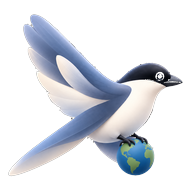
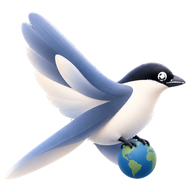
홈 화면 잘림을 고치고 로고 그림을 새로 다듬는다
홈 화면이 세로로 짧은 기기에서 위아래가 잘린 채 스크롤도 안 됐다.
flex 는 위아래로 똑같이 밀어낸다. 위로 넘긴 부분은 스크롤 시작점보다
앞이라 되돌아갈 수 없고, scrollHeight 도 늘지 않아 스크롤 막대가 짧게
잡힌다 — 390×480 에서 로고와 제목이 통째로 가려져 있었다.
safe center 로 바꿔 넘칠 때만 위를 기준으로 쌓이게 했다. 앞 줄에 옛
브라우저용 center 를 남겨 둔다. 결과 카드(.rq-body)도 같은 문제라 함께 고쳤다.

로고는 받은 그림으로 갈았다. 전에 쓰던 그림은 파랑이 너무 세서 지구본이
부리 옆 파란 얼룩처럼 보였는데, 새 그림은 발로 지구본을 쥔 모양이 또렷하다.
원본 외곽선에 찍혀 있던 검은 낱알 310픽셀은 주변 색으로 덮었다 — 주변보다
뚜렷하게 어두운 픽셀만 골라서, 머리·부리처럼 넓게 검은 곳은 건드리지 않는다.
그 과정을 tools/make-logo.py 로 남겨 다음에 그림이 바뀌어도 같은 손질을
다시 할 수 있게 했다.

Claude-Session: https://claude.ai/code/session_0111yRyXzGisqdrG9SKT91iY

diff --git a/index.html b/index.html
@@ -13,10 +13,10 @@
 <link rel="stylesheet" crossorigin href="https://cdn.jsdelivr.net/gh/orioncactus/pretendard@v1.3.9/dist/web/static/pretendard.min.css">
 <link href="https://fonts.googleapis.com/css2?family=Space+Grotesk:wght@400;500;600;700&display=swap" rel="stylesheet">
 </noscript>
-<link rel="icon" href="img/magpie-64.png?v=20260912b">
-<link rel="apple-touch-icon" href="img/magpie-192.png?v=20260912b">
+<link rel="icon" href="img/magpie-64.png?v=20260913a">
+<link rel="apple-touch-icon" href="img/magpie-192.png?v=20260913a">
 <script>(function(){try{var m=localStorage.getItem('seji_theme')||(matchMedia('(prefers-color-scheme: light)').matches?'light':'dark');document.documentElement.dataset.theme=m;}catch(e){}})();</script>
-<link rel="stylesheet" href="css/main.css?v=20260912b">
+<link rel="stylesheet" href="css/main.css?v=20260913a">
 </head>
 <body>
 <button id="theme-toggle" type="button" title="화면 밝기 전환" onclick="toggleTheme()"></button>
@@ -28,7 +28,7 @@
       <path d="M-10 150 C 90 150 130 40 260 40 C 390 40 430 150 530 150"/>
     </svg>
     <div class="g3-lockup" aria-label="Geogl3">
-      <img class="g3-bird" src="img/magpie-512.png?v=20260912b" alt="" width="512" height="512" decoding="async"/>
+      <img class="g3-bird" src="img/magpie-512.png?v=20260913a" alt="" width="512" height="512" decoding="async"/>
       <div class="g3-logo">Geogl3</div>
     </div>
     <p class="ld-tag">See the world from above</p>
@@ -46,7 +46,7 @@
        예전에는 카드 안 "로그인하면…" 줄 **위**에 끼어 있어서, 세 사이트를 나란히
        놓으면 지오글만 브랜드가 본문 한복판에 뜬 것처럼 보였다. -->
   <footer class="ld-foot">
-    <a class="ld-brand" href="https://nepica.vercel.app" target="_blank" rel="noreferrer" aria-label="NEPICA 브랜드 사이트로 이동"><img src="img/nepica-64.png?v=20260912b" alt="" width="22" height="22" decoding="async"/><span>NEPICA</span></a>
+    <a class="ld-brand" href="https://nepica.vercel.app" target="_blank" rel="noreferrer" aria-label="NEPICA 브랜드 사이트로 이동"><img src="img/nepica-64.png?v=20260913a" alt="" width="22" height="22" decoding="async"/><span>NEPICA</span></a>
   </footer>
 
   <!-- 세부 옵션 시트 -->
@@ -4950,25 +4950,25 @@
     <button class="reb secondary" onclick="runPendingReset();document.getElementById('rbq-end').classList.remove('on')">다시 시작</button>
   </div>
 </div>
-<script src="js/data.js?v=20260912b"></script>
-<script src="js/rivers-data.js?v=20260912b"></script>
-<script src="js/climate-data.js?v=20260912b"></script>
-<script src="js/climate-map-data.js?v=20260912b"></script>
-<script src="js/app.js?v=20260912b"></script>
-<script src="js/climate.js?v=20260912b"></script>
-<script src="js/dict-data.js?v=20260912b"></script>
-<script src="js/flag-colors-data.js?v=20260912b"></script>
-<script src="js/flag-bg-data.js?v=20260912b"></script>
-<script src="js/wiki-style.js?v=20260912b"></script>
-<script src="js/dict.js?v=20260912b"></script>
-<script src="js/suteuk-data.js?v=20260912b"></script>
-<script src="js/suteuk.js?v=20260912b"></script>
-<script src="js/stat-data.js?v=20260912b"></script>
-<script src="js/stat.js?v=20260912b"></script>
+<script src="js/data.js?v=20260913a"></script>
+<script src="js/rivers-data.js?v=20260913a"></script>
+<script src="js/climate-data.js?v=20260913a"></script>
+<script src="js/climate-map-data.js?v=20260913a"></script>
+<script src="js/app.js?v=20260913a"></script>
+<script src="js/climate.js?v=20260913a"></script>
+<script src="js/dict-data.js?v=20260913a"></script>
+<script src="js/flag-colors-data.js?v=20260913a"></script>
+<script src="js/flag-bg-data.js?v=20260913a"></script>
+<script src="js/wiki-style.js?v=20260913a"></script>
+<script src="js/dict.js?v=20260913a"></script>
+<script src="js/suteuk-data.js?v=20260913a"></script>
+<script src="js/suteuk.js?v=20260913a"></script>
+<script src="js/stat-data.js?v=20260913a"></script>
+<script src="js/stat.js?v=20260913a"></script>
 <!-- ════════════════════════════════════════════════════════════
      계정 · 소셜로그인 · 랭킹 (Supabase) — 빌드/명령어 불필요, 이 파일만으로 동작
      ▼▼▼ 여기 두 줄만 본인 Supabase 값으로 바꾸면 끝 ▼▼▼ -->
-<script type="module" src="js/account.js?v=20260912b"></script>
+<script type="module" src="js/account.js?v=20260913a"></script>
 
 </body>
 </html>

diff --git a/css/main.css b/css/main.css
@@ -258,7 +258,8 @@ body.mob-mode #kr-ov{align-items:flex-start;padding-top:.8rem;padding-bottom:0}
 .rq-stat{display:flex;flex-direction:row;align-items:center;gap:.4rem;background:var(--sf2);border-radius:999px;padding:.3rem .75rem}
 .rq-progress{height:2px;background:var(--bd);flex-shrink:0}
 .rq-pf{height:100%;background:var(--ac);transition:width .4s;width:0%}
-.rq-body{flex:1;display:flex;align-items:center;justify-content:center;padding:1.5rem;overflow-y:auto}
+/* 결과 카드도 같은 이유로 safe 로 둔다 — 카드가 길면 위가 잘려 제목이 안 보였다 */
+.rq-body{flex:1;display:flex;align-items:center;align-items:safe center;justify-content:center;padding:1.5rem;overflow-y:auto}
 .rq-card{background:var(--sf);border:1px solid var(--bd);border-radius:16px;box-shadow:var(--shadow);width:100%;max-width:520px;padding:1.6rem}
 .rq-flag{text-align:center;margin-bottom:.5rem;line-height:1.2}
 .rq-flag img{height:64px;border-radius:4px;box-shadow:0 2px 8px rgba(0,0,0,.3);object-fit:cover}
@@ -290,7 +291,13 @@ body.mob-mode #kr-ov{align-items:flex-start;padding-top:.8rem;padding-bottom:0}
 .wi-country{font-weight:600}
 .wi-ans{color:#81c995;margin-left:6px}
 .wi-yours{color:var(--wr);margin-left:6px}
-#landing-overlay{position:fixed;inset:0;background:radial-gradient(1100px 620px at 50% -12%,#1d222a 0%,var(--bg) 62%);z-index:9000;display:flex;flex-direction:column;align-items:center;justify-content:center;gap:1.2rem;overflow-y:auto;padding:1.2rem 0}
+/* justify-content:center 는 내용이 화면보다 길어지면 위아래로 똑같이 밀어낸다.
+   위로 넘친 부분은 스크롤로 되돌아갈 수 없어 잘린 채 갇힌다 — 화면이 낮거나
+   글씨를 키운 기기에서 홈 화면 로고와 아래쪽이 함께 잘리던 원인이다.
+   safe center 는 넘칠 때만 flex-start 처럼 굴어 위쪽을 지켜 준다.
+   앞 줄은 safe 를 모르는 브라우저용 대비책이다. */
+#landing-overlay{position:fixed;inset:0;background:radial-gradient(1100px 620px at 50% -12%,#1d222a 0%,var(--bg) 62%);z-index:9000;display:flex;flex-direction:column;align-items:center;
+  justify-content:center;justify-content:safe center;gap:1.2rem;overflow-y:auto;padding:1.2rem 0}
 .land-choices{display:flex;gap:.8rem;flex-wrap:wrap;justify-content:center}
 .land-btn{padding:1.1rem 1.8rem;border-radius:4px;border:1px solid var(--bd);background:var(--sf);color:var(--tx);font-family:var(--font-sans);font-size:.92rem;font-weight:600;cursor:pointer;transition:.2s;min-width:140px;text-align:center}
 .land-btn:hover{border-color:var(--tx);color:var(--tx);background:var(--sf2)}

diff --git a/tools/make-logo.py b/tools/make-logo.py
@@ -1,0 +1,97 @@
+#!/usr/bin/env python3
+"""로고 이미지 다듬기 — 흰 배경을 지우고 가장자리 점을 털어 낸 뒤 크기별로 뽑는다.
+
+    python3 tools/make-logo.py <원본.png>
+
+원본은 흰 배경에 물까치가 그려진 정사각 그림이다. 하는 일은 셋뿐이다.
+  1. 테두리에서 흰색을 따라 들어가며 배경만 투명하게 만든다.
+     (새 안쪽의 흰 배·날개는 배경과 이어져 있지 않아 살아남는다)
+  2. 새와 떨어져 있는 작은 점들을 지운다 — 원본 외곽선에 찍힌 검은 얼룩이다.
+  3. 여백을 고르게 두고 512·192·64로 줄여 img/ 에 쓴다.
+색은 손대지 않는다.
+"""
+import sys, collections
+from PIL import Image, ImageFilter
+import numpy as np
+
+SRC = sys.argv[1] if len(sys.argv) > 1 else 'logo.png'
+OUT = {'img/magpie-512.png': 512, 'img/magpie-192.png': 192, 'img/magpie-64.png': 64}
+WHITE = 238          # 이 값보다 밝고 색기 없는 픽셀을 배경 후보로 본다
+CHROMA = 14          # R·G·B 차이가 이만큼 안 나면 무채색(=흰 배경)
+SPECK = 0.0008       # 전체 넓이의 이 비율보다 작은 조각은 얼룩으로 보고 지운다
+DOT = 46             # 주변보다 이만큼 어두운 낱알은 외곽선 얼룩으로 보고 지운다
+
+im = Image.open(SRC).convert('RGB')
+
+# ── 0. 윤곽을 따라 찍힌 검은 낱알 지우기 ──
+#   주변 median 보다 뚜렷하게 어두운 픽셀만 median 색으로 덮는다.
+#   머리·부리처럼 넓게 검은 곳은 제 주변도 같이 어두워서 median 과 차이가
+#   없으므로 그대로 남는다 — 낱알만 골라 없어진다.
+med = im.filter(ImageFilter.MedianFilter(5))
+o = np.asarray(im).astype(np.int16)
+m = np.asarray(med).astype(np.int16)
+speck = (m.mean(axis=2) - o.mean(axis=2)) > DOT
+o[speck] = m[speck]
+print(f'외곽선 얼룩 {int(speck.sum())}픽셀을 주변 색으로 덮음')
+im = Image.fromarray(o.astype(np.uint8))
+
+a = np.asarray(im).astype(np.int16)
+h, w = a.shape[:2]
+bright = a.max(axis=2) >= WHITE
+flat = (a.max(axis=2) - a.min(axis=2)) <= CHROMA
+bg_like = bright & flat
+
+# ── 1. 테두리에서 흰 배경만 번져 들어간다 ──
+seen = np.zeros((h, w), bool)
+q = collections.deque()
+for x in range(w):
+    for y in (0, h - 1):
+        if bg_like[y, x] and not seen[y, x]:
+            seen[y, x] = True; q.append((y, x))
+for y in range(h):
+    for x in (0, w - 1):
+        if bg_like[y, x] and not seen[y, x]:
+            seen[y, x] = True; q.append((y, x))
+while q:
+    y, x = q.popleft()
+    for dy, dx in ((1,0),(-1,0),(0,1),(0,-1)):
+        ny, nx = y + dy, x + dx
+        if 0 <= ny < h and 0 <= nx < w and not seen[ny, nx] and bg_like[ny, nx]:
+            seen[ny, nx] = True; q.append((ny, nx))
+
+solid = ~seen
+
+# ── 2. 새와 떨어진 작은 조각(외곽선 얼룩) 털어 내기 ──
+label = np.zeros((h, w), np.int32)
+sizes = [0]
+cur = 0
+for sy in range(h):
+    for sx in range(w):
+        if not solid[sy, sx] or label[sy, sx]:
+            continue
+        cur += 1; n = 0
+        st = [(sy, sx)]; label[sy, sx] = cur
+        while st:
+            y, x = st.pop(); n += 1
+            for dy, dx in ((1,0),(-1,0),(0,1),(0,-1)):
+                ny, nx = y + dy, x + dx
+                if 0 <= ny < h and 0 <= nx < w and solid[ny, nx] and not label[ny, nx]:
+                    label[ny, nx] = cur; st.append((ny, nx))
+        sizes.append(n)
+keep = {i for i, n in enumerate(sizes) if i and n >= SPECK * h * w}
+solid = np.isin(label, list(keep))
+dropped = len(sizes) - 1 - len(keep)
+
+# ── 3. 알파 만들고, 여백 고르게 두고, 크기별로 ──
+alpha = Image.fromarray((solid * 255).astype(np.uint8))
+alpha = alpha.filter(ImageFilter.GaussianBlur(0.8))      # 가장자리 계단 없애기
+im.putalpha(alpha)
+box = alpha.point(lambda v: 255 if v > 8 else 0).getbbox()
+im = im.crop(box)
+side = int(max(im.size) * 1.06)                          # 6% 여백
+pad = Image.new('RGBA', (side, side), (0, 0, 0, 0))
+pad.paste(im, ((side - im.size[0]) // 2, (side - im.size[1]) // 2))
+for path, n in OUT.items():
+    pad.resize((n, n), Image.LANCZOS).save(path)
+print(f'조각 {len(sizes)-1}개 중 얼룩 {dropped}개 제거 · 잘라낸 영역 {box} · 정사각 {side}px')
+print('  →', ', '.join(OUT))
